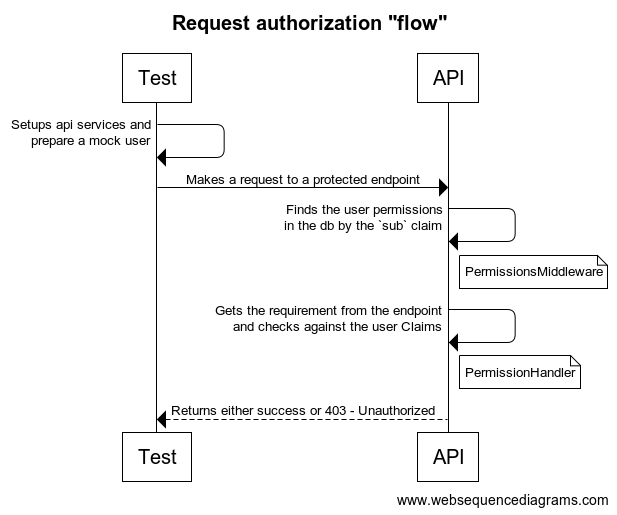
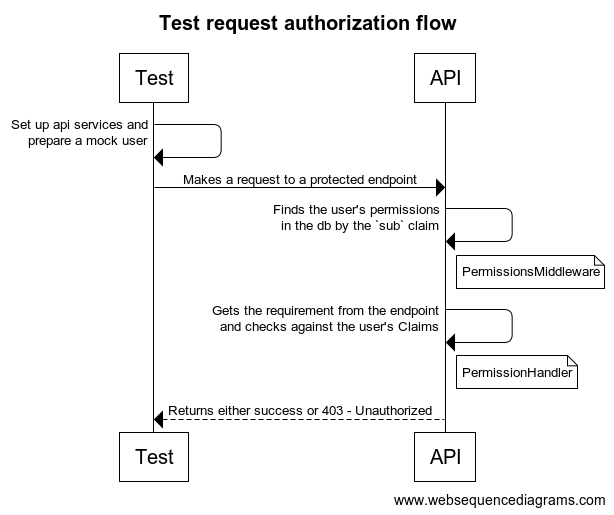
Finished tests for protected API post

diff --git a/src/content/posts/2021/testing-authorized-endpoints/index.md b/src/content/posts/2021/testing-authorized-endpoints/index.md
@@ -2,9 +2,9 @@
 # recommended 70 chars
 title: "Adding integration tests for permission-protected API endpoints in ASP.NET Core"
 # recommended 156 chars
-description: "In this post I'll show you how to add integration tests for API endpoints that we protected with permissions in the last post."
+description: "In this post, I'll show you how to add integration tests for API endpoints protected with permissions."
 
-date: 2021-03-31T21:21:00+00:00
+date: 2021-05-12T20:21:00+00:00
 tags: ["asp.net-core", "authorization", "security", "permission-based-authorization", "policies", integration-tests]
 author: "Joao Grassi"
 showToc: true
@@ -34,10 +34,13 @@ This is the forth post in the [Authorization in ASP.NET Core](/series/authorizat
 
 - [Part 3: Protecting your API endpoints with dynamic policies in ASP.NET Core](/posts/2021/asp-net-core-protecting-api-endpoints-with-dynamic-policies)
 
-- [Part 4: Adding integration tests for permission-protected API endpoints in ASP.NET Core (this post)](/posts/2021/asp-net-core-protecting-api-endpoints-with-dynamic-policies)
+- [Part 4: Adding integration tests for permission-protected API endpoints in ASP.NET Core (this post)](/posts/2021/asp-net-core-testing-permission-protected-api-endpoints)
 
-In this post, I'll show you how we can add integration tests to our API endpoints, that are now using our custom `PermissionAuthorize` attribute. The focus will be more on how we can "mock" an authenticated user and their set of permissions. Let's start!
+In the previous post I demonstrated an approach to add authorization to our API endpoints. They are now fully protected with permissions.
 
+We are almost there, but there is something important missing: **Tests**. 
+
+In this post, I'll show you how we can add integration tests to our API endpoints. More specifically, I'll be focusing on how we can "mock" an authenticated user and their set of permissions so we can test all different scenarios we might need. Let's start!
 
 ## TL;DR
 
@@ -47,7 +50,7 @@ Check the code on [GitHub](https://github.com/joaopgrassi/authz-custom-middlewar
 
 ## What we'll be testing
 
-In the last post, I demonstraded that by extending the authorization framework in ASP.NET Core, we were able to achieve a very granular level of authorization for our API endpoints. A quick recap of what we achieved was:
+In the last post, I demonstrated that by extending the authorization framework in ASP.NET Core, we achieved a very granular level of authorization for our API endpoints. Here is a refresher:
 
 ```csharp
 [PermissionAuthorize(PermissionOperator.And, Permissions.Update, Permissions.Read)]
@@ -58,19 +61,17 @@ public IActionResult Update()
 }
 ```
 
-It's all nice, but without tests we are a bit in the dark:
+It's all nice, but without tests, we are a bit in the dark:
 
-- Is it really protected? What happens if I call it without having the required permissions?
-
-- Does it work if it's an `OR` and I have one of the permissions listed?
+- Is it protected? What happens if I call it without having the required permissions?
 
 - How can I ensure that it's clear when an existing endpoint changes its required permissions?
 
-These are all valid questions (and many others), right? Let's see how we can address them.
+These are all valid questions (and many others) right? Let's see how we can address them.
 
 ## It all starts with the logged-in user
 
-The way we achieved this authorization is by implementing a custom `AuthorizationHandler`. In the last post we created our own (among other things), which internally inspects if the logged in `User` has the necessary claims. Here is one part of it to refresh things:
+The way we achieved this authorization is by implementing a custom `AuthorizationHandler`. In the last post, we created our own (among other things), which internally inspects if the logged-in `User` has the necessary claims. Here is one part of it:
 
 ```csharp
 public class PermissionHandler : AuthorizationHandler<PermissionRequirement>
@@ -82,7 +83,7 @@ public class PermissionHandler : AuthorizationHandler<PermissionRequirement>
         {
             foreach (var permission in requirement.Permissions)
             {
-                // Here we are looking at the logged-in user claims.
+                // Here we are looking at the logged-in user's claims.
                 if (!context.User.HasClaim(PermissionRequirement.ClaimType, permission))
                 {
                     context.Fail();
@@ -94,24 +95,33 @@ public class PermissionHandler : AuthorizationHandler<PermissionRequirement>
         }
 // omitted for brevity
 ```
-In order to add integration tests for the endpoint, we somehow need to have an authenticated user when making the requests.
+To add integration tests for the endpoint, we somehow need to have an *authenticated user* (`Context.User`) present.
 
+If you have been following this series you know that our API has JWT Bearer token authentication configured (`services.AddAuthentication(..).AddJwtBearer(..)`).
+
+By doing this we will be ultimately registering the `JwtBearerHandler`, which is an `AuthenticationHandler`. This handler is responsible for many things, but the important part for us now is: It creates the `ClaimsPrincipal` (`Context.User`).
+
+When you send a request to the API passing the JWT token in the header, this handler will be invoked as part of the pipeline and the `HttpContext` will have the `User` property populated when the token is valid.
+
+You might wonder why I'm talking about all this. What does this have to do with testing? 
+
+During our integration tests, we want to test the **whole thing**. That includes not only our controller but also our PermissionMiddleware and all the types we created in the last post that deals with the authorization part. With a single test, we can test all the moving parts that we have been working on so far. Cool, huh?!
+
+So, how can we make the integration tests work now that they require an authenticated user with permissions? We can't just request JWT tokens for each test. That would be very impractical. So what *can* we do?
 
 ## A custom authentication handler
 
-In a nutshel, in order to authenticate a request we need just a handful of things:
+Let's think about this together: We understand what the `JwtBearerHandler` does. We also understand we need a `Context.User`. Couldn't we then create our own AuthenticationHandler and take full control of it? As matter of fact, we can!
+
+In a nutshell, to authenticate a request we need just a handful of things:
 
 1. `ClaimsPrincipal` - our user with whatever claims we want/need
 
-2. `AuthenticationTicket` - the "ticket" containing our principal and the which scheme it's for
+2. `AuthenticationTicket` - the "ticket" containing our principal and which scheme it's for
 
 3. `AuthenticationResult` - the result of authenticating the request with the ticket
 
-The question is: Where do we do this work? In an `AuthenticationHandler`.
-
-When we use: `services.AddAuthentication().AddJwtBearer(..)` we are registering the `JwtBearerHandler` which will, ultimately, do the 3 steps above. 
-
-That means for our tests we can just do the same! We can create our `TestAuthHandler` and authenticate the request in whatever ways we want.
+Here is our custom handler:
 
 ```csharp
 // usings omitted for brevity. Don't worry the full code is on GitHub :)
@@ -129,6 +139,7 @@ public class TestAuthHandler : AuthenticationHandler<AuthenticationSchemeOptions
         : base(options, logger, encoder, clock)
     {
         // 1. We get a "mock" user instance here via DI.
+        // we'll see how this work later, don't worry
         _mockAuthUser = mockAuthUser;
     }
 
@@ -137,7 +148,7 @@ public class TestAuthHandler : AuthenticationHandler<AuthenticationSchemeOptions
         if (_mockAuthUser.Claims.Count == 0)
             return Task.FromResult(AuthenticateResult.Fail("Mock auth user not configured."));
 
-        // 2. Create the identity and the ticket
+        // 2. Create the principal and the ticket
         var identity = new ClaimsIdentity(_mockAuthUser.Claims, AuthConstants.Scheme);
         var principal = new ClaimsPrincipal(identity);
         var ticket = new AuthenticationTicket(principal, AuthConstants.Scheme);
@@ -149,13 +160,15 @@ public class TestAuthHandler : AuthenticationHandler<AuthenticationSchemeOptions
 }
 ```
 
-We start by creating a new class inheriting from the abstract `AuthenticationHandler` one. Handlers are DI enabled, and the base class requires all those params. To make it short, focus on the `mockAuthUser` param being injected. That is our User! 
+We start by creating a new class inheriting from the abstract `AuthenticationHandler` one. Handlers are DI enabled, and the base class requires all those params. To make it short, focus on the `mockAuthUser` param injected. That is our User! 
 
-The `HandleAuthenticateAsync` is invoked by the framework when a request is trying to access an authorized endpoint. It will simple use the injected user and do the steps I mentioned above to authorize the request. That's pretty much it for the handler. 
+The `HandleAuthenticateAsync` is invoked by the framework when a request is trying to access an authorized endpoint. It will simply use the injected user and do the steps I mentioned above to authorize the request. That's pretty much it for the handler. 
+
+Next, we'll be focusing on how to prepare the integration tests to use it.
 
 ## Registering our test authentication handler
 
-Now that we have our handler, we need to register it, so the framework is aware of it. A quick extension method makes things easy:
+Next, we must register our handler into DI. An extension method comes in handy:
 
 ```csharp
 public static class AuthServiceCollectionExtensions
@@ -178,22 +191,20 @@ public static class AuthServiceCollectionExtensions
     }
 }
 ```
-Now we just need to glue everything together for our tests. Let's see how next.
-
+Now we need to glue everything together for our tests.
 
 ## Extending our API via `WebApplicationFactory`
 
-> The focus of this post is not how to setup integration tests. If you are not familiar with it, [check the official docs](https://docs.microsoft.com/en-us/aspnet/core/test/integration-tests?view=aspnetcore-5.0), or also my series of posts about it: [Integration tests in ASP.NET Core](https://blog.joaograssi.com/series/integration-tests-in-asp.net-core/)
+> The focus of this post is not how to set up integration tests. If you are not familiar with it, [check the official docs](https://docs.microsoft.com/en-us/aspnet/core/test/integration-tests?view=aspnetcore-5.0), or also my series of posts about it: [Integration tests in ASP.NET Core](https://blog.joaograssi.com/series/integration-tests-in-asp.net-core/)
 
 
-Now that we have our handler, we need to achieve these things:
+These are the steps we need now:
 
-1. Add our custom authentication handler to the app (we can have multiple, so it's OK to still have the `JWTBearer` one)
+1. Add our custom authentication handler to the api during tests (we can have multiple. The`JWTBearer` will still be there)
 
-2. Have a way to register our mock authenticated user into DI, so the handler can get it
+2. Have a way to register our mock authenticated user into DI (remember our handler needs it)
 
-
-This is how our `ConfigureWebHost` method looks like after the changes:
+Here is how the relevant part of the `ConfigureWebHost` method looks like:
 
 ```csharp
 
@@ -225,16 +236,19 @@ public class MockAuthUser
 
 ```
 
-There's more stuff in `ConfigureWebHost`, but the only relevant part for us here are those. We register our handler and our default user instance. 
+We register our custom handler using the extension method we just created. Then, we register the `_user` field as a scoped instance into DI.
 
-The idea to register the instance of the user via DI, is that later in a test we can just register another instance which will override this one. This is how we can test different cases, like a user having vs not having a permission.
+The idea of registering a user into DI is that we can later override it with another instance during the tests. We'll see how this works next.
+
+> You can check the complete code of the `WebApplicationFactory` on [GitHub](https://github.com/joaopgrassi/authz-custom-middleware/blob/main/tests/API.Tests/ApiApplicationFactory.cs).
+
 
 ## Adding an integration test
 
 Now we have everything to write our test! Let's try this:
 
-- **Given** an endpoint protected with the `Read` permission :lock:
-- **And** a user that does not have a `Read` permission tries to access it :smirk:
+- **Given** an endpoint protected with the `Read` **AND** `Update` permissions :lock:
+- **And** a user that does not have the `Update` permission tries to access it :smirk:
 - **Then** the API returns a `403 - Forbidden` response code :no_entry:
 
 
@@ -252,10 +266,13 @@ public class ProductControllerTests : IClassFixture<ApiApplicationFactory>
     public async Task Put_RequiresReadAndUpdate_UserHasOnlyReadPermission_ShouldReturn403Forbidden()
     {
         // Arrange
+
+        // Create a user with the Read and Create permissions in our db
         var user = await CreateTestUser(Permissions.Read, Permissions.Create);
 
         var client = _factory.WithWebHostBuilder(builder =>
         {
+            // register this user in DI (will override the initial one)
             builder.ConfigureTestServices(services => services.AddScoped(_ => user));
         }).CreateClient();
         
@@ -269,13 +286,13 @@ public class ProductControllerTests : IClassFixture<ApiApplicationFactory>
 
 And it passes!
 
-> The `CreateTestUser` method simply adds a new user with the specified permissions (`Update`,`Create`) in the database. If you remember, in the first post of this series we created a [middleware that loads the permissions](https://github.com/joaopgrassi/authz-custom-middleware/blob/57adf66c0932e9fdb2fad742e24f94ffdb74d44e/src/API/Authorization/PermissionsMiddleware.cs#L39) from the database based on the user `sub` claim.
+> The `CreateTestUser` method inserts a new user with the specified permissions (`Update`,`Create`) in the database. In the first post of the series, we created a [middleware that loads the permissions](https://github.com/joaopgrassi/authz-custom-middleware/blob/57adf66c0932e9fdb2fad742e24f94ffdb74d44e/src/API/Authorization/PermissionsMiddleware.cs#L39) from the database based on the user `sub` claim. The middleware then uses the permissions found to augment the ClaimsPrincipal.
 
-The test is simple but it gives us so much value. Now we know that:
+The test is simple but it gives us so much value. Now we are sure that:
 
-1. The middleware works - The user permissions are loaded from the db and added to the `ClaimsPrincipal`
+1. The middleware works - The user's permissions are loaded from the db and added to the `ClaimsPrincipal`
 
-2. The `PermissionHandler` has the requirement and it correctly checks it against the User `Claims`
+2. The `PermissionHandler` correctly checks the endpoint's permissions against the user's `Claims`
 
 3. The endpoint is in fact protected
 
@@ -284,27 +301,26 @@ Putting all together in a diagram, the "flow" looks more or less like this:
 
 {{< img "*request_authorization*" "Flow of testing a protected endpoint" >}}
 
+That's it. Now we can add all sorts of tests and combinations as we see fit.
+
 
 ## Conclusion
 
-In the last post of the series we added authorization to our API endpoints, but we really didn't know it was working as we expected. 
+In the previous post of the series, we added authorization to our API endpoints, but we didn't know it was working as we expected. We were missing a way to verify it.
 
-In this post I showed you how we can add integration tests for our API. More specifically, I focused on what we needed to do in order to have an authenticated user during the tests and how we could manipulate this user to test different permissions scenarios.
+In this post, I showed you how to solved that by adding integration tests. The tests gave us the answer that our endpoints are indeed protected and that the permission checks work.
 
-This was all done by implementing a custom `AuthenticationHandler` and overriding the services of the API inside our `ApiApplicationFactory`
+We saw how to mock an authenticated user for our tests by implementing a custom `AuthenticationHandler`. We then manipulated this user to test all different permission scenarios.
 
-We answered all the questions at the beginning of the posts
+All the questions from the beginning were answered:
 
-- Is it really protected? What happens if I call it without having the required permissions?
-> The API returns a 403 - Forbidden. The endpoint is not even reached.
+**Is it protected? What happens if I call it without having the required permissions?**
+*The API returns a 403 - Forbidden. The endpoint is not reached.*
 
-- Does it work if it's an `OR` and I have one of the permissions listed?
-> Yes :) both cases work
+**How can I ensure that it's clear when an existing endpoint changes its required permissions?**
+*If we have tests for it when someone changes the endpoint's permissions the tests will fail (with some caveats).*
 
-- How can I ensure that it's clear when an existing endpoint changes its required permissions?
-> If we have tests for it, then when someone changes a permission in a endpoint the tests will fail (with some caviates)
-
-As usual, I have all this on [GitHub](https://github.com/joaopgrassi/authz-custom-middleware/tree/main/tests/API.Tests). For this post, the interesting parts are inside `API.Tests`. Check the `MockAuth` folder for our custom authentication handler.
+As usual, all the code is on [GitHub](https://github.com/joaopgrassi/authz-custom-middleware/tree/main/tests/API.Tests). The relevant parts are inside`API.Tests`.
 
 Thanks for reading and I hope this was useful to you. Share with your .NET friends :wink:
 

diff --git a/src/content/posts/2021/policy-based-deep-dive/index.md b/src/content/posts/2021/policy-based-deep-dive/index.md
@@ -33,6 +33,8 @@ This is the second post in the [Authorization in ASP.NET Core](/series/authoriza
 
 - [Part 3: Protecting your API endpoints with dynamic policies in ASP.NET Core](/posts/2021/asp-net-core-protecting-api-endpoints-with-dynamic-policies)
 
+- [Part 4: Adding integration tests for permission-protected API endpoints in ASP.NET Core](/posts/2021/asp-net-core-testing-permission-protected-api-endpoints)
+
 
 In the previous post, we set the foundation by creating a `ClaimsIdentity` containing all the logged-in user permissions with the help of a custom middleware. 
 

diff --git a/src/content/posts/2021/custom-policy-provider/index.md b/src/content/posts/2021/custom-policy-provider/index.md
@@ -34,6 +34,8 @@ This is the third post in the [Authorization in ASP.NET Core](/series/authorizat
 
 - [Part 3: Protecting your API endpoints with dynamic policies in ASP.NET Core (this post)](/posts/2021/asp-net-core-protecting-api-endpoints-with-dynamic-policies)
 
+- [Part 4: Adding integration tests for permission-protected API endpoints in ASP.NET Core](/posts/2021/asp-net-core-testing-permission-protected-api-endpoints)
+
 In this post, we'll come full circle. I'll show you how to put everything together and start authorizing API endpoints with permissions.
 
 ## TL;DR
